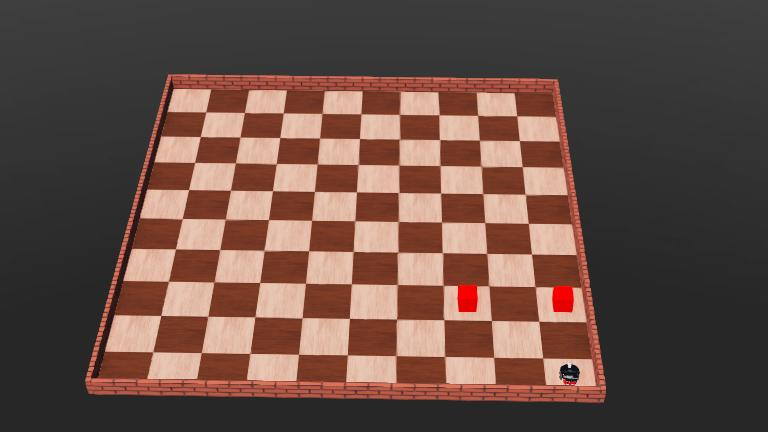
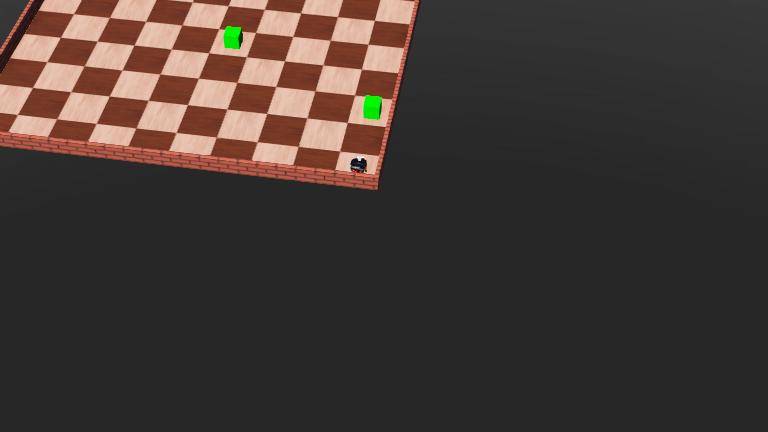
Improved Victim Detection and location, changed victims to green to make false positives less frequent, added LIDAR sensor on front of robot so we can find depth of victim

diff --git a/pioneer3/controllers/python_main/victim_detection.py b/pioneer3/controllers/python_main/victim_detection.py
@@ -1,117 +1,109 @@
-from controller import Robot, Camera, Motor
-from localisation import Localisation
+from controller import Robot, Camera, Lidar
+import cv2
+import numpy as np
+import math
 
 class VictimDetection:
     def __init__(self, robot, time_step):
         self.robot = robot
         self.time_step = time_step
-        self.camera = self.init_camera()
+        
+        # Holds positions of victims found.
+        self.found_victims = [] 
+
+        # Camera
+        self.camera = self.robot.getDevice("camera")
+        self.camera.enable(self.time_step)
+        self.height = self.camera.getHeight()
+        self.width = self.camera.getWidth()
+        self.fov = self.camera.getFov()
 
         # Motors
-        self.left_motor = self.robot.getDevice("left wheel motor")
-        self.right_motor = self.robot.getDevice("right wheel motor")
-        self.left_motor.setPosition(float('inf'))
-        self.right_motor.setPosition(float('inf'))
-        self.left_motor.setVelocity(0)
-        self.right_motor.setVelocity(0)
-    
-    def init_camera(self):
-        try:
-            camera = self.robot.getDevice("camera")
-            camera.enable(self.time_step)
-            self.width = camera.getWidth()
-            self.height = camera.getHeight()
-            camera.recognitionEnable(self.time_step)
-            print("Camera enabled successfully.")
-            return camera
-        except Exception as e:
-            print("Could not enable camera.")
-            return None
+        self.left_motor = self.robot.getDevice("left wheel")
+        self.right_motor = self.robot.getDevice("right wheel")
 
-    def analyse(self):
-        SPEED = 4
-        pause_counter = 0
-        # RED, NONE = range(2)
-        # victim = False
+        # LIDAR
+        self.lidar = self.robot.getDevice("Sick LMS 291")
+        self.lidar.enable(self.time_step)
+        self.lidar.enablePointCloud()
+
+    def analyse(self, localisation):
+        SCAN_SPEED = 2.3
+        duration_sec = (2 * math.pi / SCAN_SPEED) * 1.4
+        steps_needed = int((duration_sec * 1000) / self.time_step)
+
+        self.left_motor.setVelocity(-SCAN_SPEED)
+        self.right_motor.setVelocity(SCAN_SPEED)
+        
+        current_step = 0
 
         while self.robot.step(self.time_step) != -1:
-            image = self.camera.getImage()
+            current_step += 1
+            if current_step > steps_needed: break
 
-            if pause_counter > 0:
-                pause_counter -= 1
+            raw_image = self.camera.getImage()
+            if raw_image is None: continue
 
-            # Case 1 — waiting in front of object
-            if pause_counter > 640 / self.time_step:
-                left_speed = 0
-                right_speed = 0
+            img_np = np.frombuffer(raw_image, np.uint8).reshape((self.height, self.width, 4))
+            img_bgr = img_np[:, :, :3]
+            img_hsv = cv2.cvtColor(img_bgr, cv2.COLOR_BGR2HSV)
 
-            # Case 2 — turn but ignore image
-            elif pause_counter > 0:
-                left_speed = -SPEED
-                right_speed = SPEED
+            # Green Mask
+            mask = cv2.inRange(img_hsv, np.array([40, 50, 50]), np.array([80, 255, 255]))
+            contours, _ = cv2.findContours(mask, cv2.RETR_EXTERNAL, cv2.CHAIN_APPROX_SIMPLE)
 
-            # Case 3
-            else:
-                if image is None:
-                    left_speed = 0
-                    right_speed = 0
-                    print("Could not get image")
-                else:
-                    red_sum = green_sum = blue_sum = 0
-
-                    # Get colours
-                    for i in range(self.width // 3, 2 * self.width // 3):
-                        for j in range(self.height // 2, 3 * self.height // 4):
-                            red_sum += self.camera.imageGetRed(image, self.width, i, j)
-                            green_sum += self.camera.imageGetGreen(image, self.width, i, j)
-                            blue_sum += self.camera.imageGetBlue(image, self.width, i, j)
+            for contour in contours:
+                if cv2.contourArea(contour) > 200:
+                    M = cv2.moments(contour)
+                    if M["m00"] != 0:
+                        cx = int(M["m10"] / M["m00"])
                         
+                        center_margin = self.width * 0.10
+                        screen_center = self.width / 2
 
-                    # Check if colour is red
-                    if red_sum > 3 * green_sum and red_sum > 3 * blue_sum:
-                        victim = True
-                    else:
-                        victim = False
+                        if (screen_center - center_margin) < cx < (screen_center + center_margin):
+                            
+                            lidar_range_image = self.lidar.getRangeImage()
+                            center_index = len(lidar_range_image) // 2
+                            center_readings = lidar_range_image[center_index-5 : center_index+5]
+                            
+                            # Filter out self-hits (< 0.25m) and infinity (> 8.0m)
+                            valid_readings = [r for r in center_readings if 0.25 < r < 8.0]
+                            
+                            if len(valid_readings) > 0:
+                                dist = min(valid_readings)
+                            else:
+                                dist = 0.5 # If there are no valid readings (e.g. too close or too far) it defaults to 0.5 metres in front.
 
-                    
-                    if not victim:
-                        left_speed = -SPEED
-                        right_speed = SPEED
-                        print("No victim detected")
-                    else:
-                        left_speed = 0
-                        right_speed = 0
-                        print("Victim found")
+                            robot_pos = localisation.get_position()
+                            robot_angle = localisation.get_orientation()
 
-                        # Get position
-                        
-                        # position = Localisation.get_position()
-                        
-                        objects = self.camera.getRecognitionObjects()
-                        number_of_objects = len(objects)
-                        print(f"Recognised {number_of_objects} victims.")
+                            pixel_ratio = (cx - screen_center) / self.width
+                            angle_offset = pixel_ratio * self.fov 
+                            total_angle = robot_angle + angle_offset
 
-                        positions = []
-                        orientations = []
-                        for i, obj in enumerate(objects):
-                            # Position (3D)
-                            pos = obj.getPosition()
-                            positions.append(pos)
-                            print(f"Relative position of victim {i}: {pos[0]} {pos[1]} {pos[2]}")
+                            v_x = robot_pos[0] + (dist * math.cos(total_angle))
+                            v_y = robot_pos[1] + (dist * math.sin(total_angle))
 
-                            # Orientation (quaternion)
-                            ori = obj.getOrientation()
-                            orientations.append(ori)
-                            print(f"Relative orientation of victim {i}: {ori[0]} {ori[1]} {ori[2]} {ori[3]}")
-                        
-                        pause_counter = int(1280 / self.time_step)
+                            # Check against the list of already found victims
+                            if self._is_new_victim((v_x, v_y)):
+                                print(f"NEW VICTIM ADDED: X={v_x:.2f} Y={v_y:.2f}")
+                                self.found_victims.append((v_x, v_y))
 
-                        return [positions, orientations]        
-
-
-            # Set motor speeds
-            self.left_motor.setVelocity(left_speed)
-            self.right_motor.setVelocity(right_speed)
+        self.left_motor.setVelocity(0)
+        self.right_motor.setVelocity(0)
         
-        return []
+        return self.found_victims
+
+    def _is_new_victim(self, new_pos):
+        DUPLICATE_THRESHOLD = 1
+        
+        for v in self.found_victims:
+            dx = new_pos[0] - v[0]
+            dy = new_pos[1] - v[1]
+            dist = math.sqrt(dx*dx + dy*dy)
             
+            # if victim at least the threshold away, then its a new victim.
+            if dist < DUPLICATE_THRESHOLD: 
+                return False 
+        return True

diff --git a/pioneer3/controllers/python_main/python_main.py b/pioneer3/controllers/python_main/python_main.py
@@ -13,10 +13,9 @@ class RobotState(Enum):
     MISSION_COMPLETE = 4
 
 # Constants
-DEBUG = True
 MAX_SPEED = 5.24  # This is max rad/s for the wheels
 K_TURN = 2.6  # Proportional gain for turning
-WAIT_VALUE = 100 # Temporary timer value to break up movement between cells
+WAIT_VALUE = 0 # Temporary timer value to break up movement between cells
 
 def main():
     robot = Robot()
@@ -27,9 +26,9 @@ def main():
     SAMPLE_GRID = [
     [0, 0, 1, 0, 0, 0, 0, 0, 0, 0], # y = 0
     [0, 0, 0, 0, 0, 0, 0, 0, 0, 0], # y = 1
-    [0, 0, 1, 0, 0, 0, 0, 0, 0, 0], # y = 2
+    [0, 0, 0, 0, 0, 0, 0, 0, 0, 0], # y = 2
     [0, 0, 0, 0, 0, 0, 0, 0, 0, 0], # y = 3
-    [0, 0, 0, 0, 0, 0, 0, 0, 0, 0],  # y = 4
+    [0, 0, 0, 0, 1, 0, 0, 0, 0, 0],  # y = 4 ...
     [0, 0, 0, 0, 0, 0, 0, 0, 0, 0],
     [0, 0, 0, 0, 0, 0, 0, 0, 0, 0],
     [0, 0, 0, 0, 0, 0, 0, 0, 0, 0],
@@ -38,9 +37,10 @@ def main():
     ]
     
     # Grid coordinates are (x, y)
+    # Has to be 0,0 currently need to fix
     START_POS = (0, 0)
     # Leave LOIS empty to search every cell
-    LOIS = []
+    LOIS = [(3,4)]
     CELL_SIZE_METERS = 1.0
 
     # Module Init
@@ -54,9 +54,6 @@ def main():
     current_state = RobotState.INIT_PLANNING
     mission_complete_printed = False
     wait = WAIT_VALUE
-    
-
-    print("Robot controller started...")
     
     # Main loop
     while robot.step(time_step) != -1:
@@ -110,35 +107,21 @@ def main():
             
         elif current_state == RobotState.SCANNING:
             movement.stop()
-            victims_found = victim_detection.analyse()
-            
-            if wait == 0:
-                if DEBUG:
-                    print("\n--- DEBUG: SCAN COMPLETE ---")
-                    pos = localisation.get_position()
-                    grid_pos = path_planner.world_to_grid(pos[0], pos[1])
-                    orientation = localisation.get_orientation()
-                    
-                    print(f"  World Pos: ({pos[0]:.2f}, {pos[1]:.2f})")
-                    print(f"  Grid Pos:  {grid_pos} (x,y)")
-                    print(f"  Orientation: {math.degrees(orientation):.1f} degrees")
-                    print("------------------------------\n")
-                
-
-                path_planner.advance_waypoint() 
-                current_state = RobotState.NAVIGATING
-
-                wait = WAIT_VALUE
-            else:
-                wait -= 1
+            victims_found = victim_detection.analyse(localisation)
+            path_planner.advance_waypoint() 
+            current_state = RobotState.NAVIGATING
             
             
         elif current_state == RobotState.MISSION_COMPLETE:
             movement.stop()
             
             # If the route hasn't been printed and we are in debug mode, we print the route
-            if not mission_complete_printed and DEBUG:
-                print("Printing final path map...")
+            if not mission_complete_printed:
+                print("Potential Victim Locations:\n")
+                fv = victim_detection.found_victims
+                for i in range(len(fv)):
+                    grid_space = path_planner.world_to_grid_rounded(fv[i][0], fv[i][1])
+                    print(f"Location {i + 1}: {grid_space[0]}, {grid_space[1]}\n")
                 path_planner.print_path_map()
                 mission_complete_printed = True
             
@@ -154,29 +137,6 @@ class Movement:
         
         self.keyboard = Keyboard()
         self.keyboard.enable(time_step)
-
-    # For testing, not currently implemented
-    def keyboard_movement(self):
-        left_vel = 0.0
-        right_vel = 0.0
-        
-        key = self.keyboard.getKey()
-        
-        if key == Keyboard.UP:
-            left_vel = MAX_SPEED
-            right_vel = MAX_SPEED
-        elif key == Keyboard.DOWN:
-            left_vel = -MAX_SPEED
-            right_vel = -MAX_SPEED
-        elif key == Keyboard.LEFT:
-            left_vel = -MAX_SPEED * 0.5
-            right_vel = MAX_SPEED * 0.5
-        elif key == Keyboard.RIGHT:
-            left_vel = MAX_SPEED * 0.5
-            right_vel = -MAX_SPEED * 0.5
-        
-        self.left_wheel.setVelocity(left_vel)
-        self.right_wheel.setVelocity(right_vel)
 
     def set_wheel_velocities(self, left_vel, right_vel):
         """Helper to ensure velocities are within the allowed range."""

diff --git a/pioneer3/controllers/python_main/path_planning.py b/pioneer3/controllers/python_main/path_planning.py
@@ -64,6 +64,18 @@ class PathPlanning:
         y = max(0, min(self.rows - 1, y))
         
         return (x, y)
+
+    def world_to_grid_rounded(self, world_x, world_y):
+        # Converts world (world_x, world_y) to grid (x, y).
+        
+        x = int(round(world_x) / self.cell_size)
+        y = int(round(world_y) / self.cell_size)
+        
+        # Clamp to valid range
+        x = max(0, min(self.cols - 1, x))
+        y = max(0, min(self.rows - 1, y))
+        
+        return (x, y)
     
     def plan(self):
         route = [self.start_cell] + self.lois_cells + [self.start_cell]
@@ -181,20 +193,19 @@ class PathPlanning:
         self.current_waypoint_idx += 1
 
     def print_path_map(self):
-        print("\n" + "="*30)
-        print("      MISSION COMPLETE: PATH MAP      ")
+        print("PATH MAP:")
         print("="*30)
-        
+
         vis_grid = [['0' for _ in range(self.cols)] for _ in range(self.rows)]
         
         for (x, y) in self.full_path_grid:
             if vis_grid[y][x] == '0':
                 vis_grid[y][x] = '1'
         
-        for (x, y) in self.lois_grid:
+        for (x, y) in self.lois_cells:
             vis_grid[y][x] = 'L'
         
-        start_x, start_y = self.start_grid
+        start_x, start_y = self.start_cell
         vis_grid[start_y][start_x] = 'S'
         
         header = "y\\x " + " ".join(map(str, range(self.cols)))
